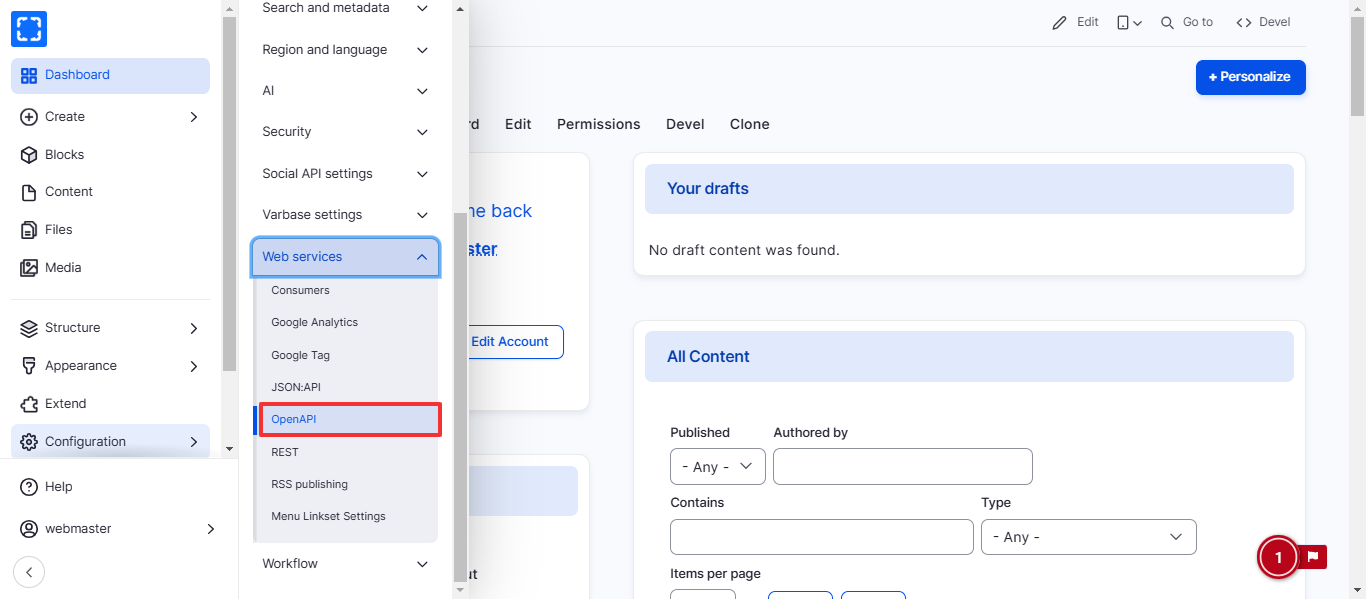
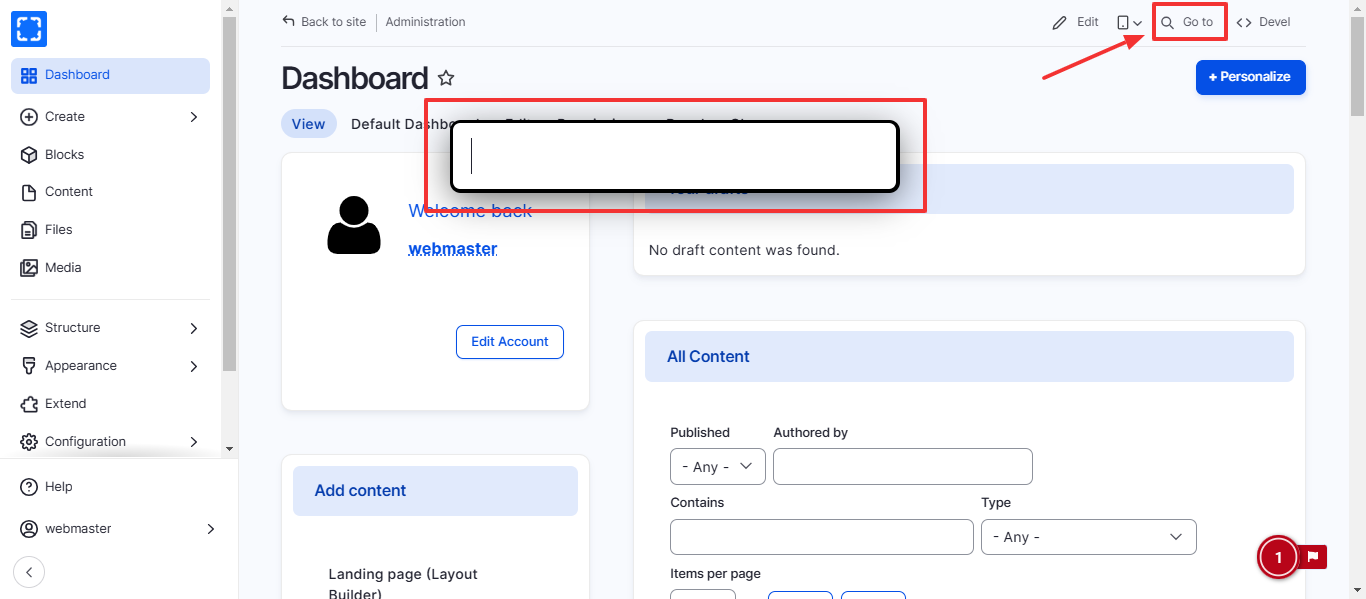
GITBOOK-298: change request with no subject merged in GitBook

diff --git a/content-designers/site-configuration/user-interface/coffee.md b/content-designers/site-configuration/user-interface/coffee.md
@@ -1,0 +1,25 @@
+# Coffee
+
+Varbase is a Drupal distribution that comes with pre-configured features to streamline the website building process. The "Coffee" module within Varbase provides an efficient way to navigate through large admin interfaces by offering a quick search bar, similar to application launchers seen in operating systems. With this module, users can type in keywords and instantly access various sections of their Drupal site, significantly enhancing productivity and user experience by reducing the time spent on navigation.
+
+### How to Use Coffee Module
+
+1. From the right tob of all the pages, Click on _**Go To**_ link
+2. a search bar will appear, type the functionality you are searching for.
+3. Once you start typing the search bar will auto-complete in dropdown list.
+4. Click on the page you are looking for.
+5. You'll be redirected to the page.
+
+<figure><img src="../../../.gitbook/assets/image (144).png" alt=""><figcaption><p>Go to Link/ Search Bar Popup</p></figcaption></figure>
+
+<figure><img src="../../../.gitbook/assets/image (145).png" alt=""><figcaption><p>Auto-complete in Dropdown List</p></figcaption></figure>
+
+### How to Configure the Coffee Module
+
+1. Form **Configuration/ User interface/&#x20;**_**Coffee.**_
+2. You'll be redirected to the **Coffee Configuration** page.
+3. Update the information you want and click on Save Configuration button.
+
+<figure><img src="../../../.gitbook/assets/image (146).png" alt=""><figcaption><p>Navigate Coffee</p></figcaption></figure>
+
+<figure><img src="../../../.gitbook/assets/image (149).png" alt=""><figcaption><p>Coffee Configuration Page</p></figcaption></figure>

diff --git a/content-designers/site-configuration/web-services/openapi.md b/content-designers/site-configuration/web-services/openapi.md
@@ -18,9 +18,9 @@ This approach streamlines the development process by ensuring that your API is w
 
 Go to **Configuration/ Web Services/&#x20;**_**OpenAPI.**_
 
-<figure><img src="../../../.gitbook/assets/image (144).png" alt=""><figcaption><p>Navigate OpenAPI</p></figcaption></figure>
+<figure><img src="../../../.gitbook/assets/image (139).png" alt=""><figcaption><p>Navigate OpenAPI</p></figcaption></figure>
 
-<figure><img src="../../../.gitbook/assets/image (145).png" alt=""><figcaption><p>OpenAPI Page</p></figcaption></figure>
+<figure><img src="../../../.gitbook/assets/image (140).png" alt=""><figcaption><p>OpenAPI Page</p></figcaption></figure>
 
 ### OpenAPI Documentation:
 
@@ -28,7 +28,7 @@ Go to **Configuration/ Web Services/&#x20;**_**OpenAPI.**_
 2. Click on _**Explore with ReDoc**_ or _**Explore with Swagger UI.**_
 3. You'll be redirected to the OpenAPI Documentation page.
 
-<figure><img src="../../../.gitbook/assets/image (146).png" alt=""><figcaption><p>Explore with ReDoc &#x26; Explore with Swagger UI Buttons</p></figcaption></figure>
+<figure><img src="../../../.gitbook/assets/image (143).png" alt=""><figcaption><p>Explore with ReDoc &#x26; Explore with Swagger UI Buttons</p></figcaption></figure>
 
 <figure><img src="../../../.gitbook/assets/image (147).png" alt=""><figcaption><p>OpenAPI Documentation - Explore with ReDoc</p></figcaption></figure>
 

diff --git a/content-designers/site-configuration/user-interface/external-links.md b/content-designers/site-configuration/user-interface/external-links.md
@@ -1,0 +1,19 @@
+# External Links
+
+In **Varbase**, external links refer to links that direct users to websites outside of your own domain. Varbase, being a Drupal-based distribution, offers various ways to handle external links effectively. Here are some key features:
+
+* **Automatic Detection**: Varbase can differentiate between internal and external links.
+* **Target Behavior**: You can configure external links to open in a new tab (`_blank`) for better user experience.
+* **Icon Indication**: External links can be automatically marked with an external link icon.
+* **SEO & Security Enhancements**: Attributes like `rel="noopener noreferrer"` can be added to improve security and SEO.
+* **Customization**: You can configure external link behavior using Drupal modules like **External Links** or custom settings in Varbase.
+
+### How to Navigate the External Links Page
+
+1. Form **Configuration/ User interface/&#x20;**_**External Links.**_
+2. You'll be redirected to the **External Links** page.
+3. Update the information you want and click on Save Configuration button.
+
+<figure><img src="../../../.gitbook/assets/image (151).png" alt=""><figcaption><p>Navigate the External Links Page</p></figcaption></figure>
+
+<figure><img src="../../../.gitbook/assets/image (150).png" alt=""><figcaption><p>External Links Page</p></figcaption></figure>

diff --git a/content-designers/site-configuration/user-interface/gin-moderation-sidebar.md b/content-designers/site-configuration/user-interface/gin-moderation-sidebar.md
@@ -1,0 +1,19 @@
+# Gin Moderation Sidebar
+
+The **Gin Moderation Sidebar** in **Varbase** is a feature designed to enhance content moderation and workflow management within the **Gin Admin Theme**.&#x20;
+
+* **Streamlined Moderation**: Provides an easy-to-access sidebar for managing content moderation states.
+* **Workflow Integration**: Works with the **Workbench Moderation** or **Content Moderation** modules to allow smooth content approvals.
+* **Quick Actions**: Editors and moderators can change moderation states (e.g., Draft, Published, Needs Review) without leaving the current page.
+* **User-Friendly UI**: Part of the Gin Admin Theme, offering a modern and intuitive experience.
+* **Customizable**: Can be adjusted based on user roles and permissions for better workflow control.
+
+### How to Navigate the Gin Moderation Sidebar Page
+
+1. Form **Configuration/ User interface/&#x20;**_**Gin Moderation Sidebar.**_
+2. You'll be redirected to the **Gin Moderation Sidebar** page.
+3. Update the information you want and click on Save Configuration button.
+
+<figure><img src="../../../.gitbook/assets/image (153).png" alt=""><figcaption><p>Gin Moderation Sidebar Page</p></figcaption></figure>
+
+<figure><img src="../../../.gitbook/assets/image (152).png" alt=""><figcaption><p>Moderation States</p></figcaption></figure>

diff --git a/content-designers/site-configuration/user-interface/layout-builder-modal.md b/content-designers/site-configuration/user-interface/layout-builder-modal.md
@@ -1,0 +1,20 @@
+# Layout Builder Modal
+
+The **Layout Builder Modal** in **Varbase** provides an improved user experience for managing content layouts using the **Drupal Layout Builder**. It allows users to configure sections and blocks within a modal window instead of a full-page reload.
+
+**Key Features:**
+
+* **Improved UX**: Opens block and section configuration in a modal instead of a full-page reload.
+* **Faster Editing**: Reduces page refreshes, making layout updates more efficient.
+* **Seamless Integration**: Works with the **Varbase Layout Builder** and **Gin Admin Theme** for a modern UI.
+* **Customizable Permissions**: Control access via Drupal’s permissions system.
+
+### How to Navigate the **Layout Builder Modal** Page
+
+1. Form **Configuration/ User interface/&#x20;**_**Layout Builder Modal.**_
+2. You'll be redirected to the **Layout Builder Modal** page.
+3. Update the information you want and click on Save Configuration button.
+
+<figure><img src="../../../.gitbook/assets/image (155).png" alt=""><figcaption><p>Navigate the Layout Builder Modal Page</p></figcaption></figure>
+
+<figure><img src="../../../.gitbook/assets/image (154).png" alt=""><figcaption><p>Layout Builder Modal Page</p></figcaption></figure>

diff --git a/content-designers/site-configuration/user-interface/admin-toolbar-tools.md b/content-designers/site-configuration/user-interface/admin-toolbar-tools.md
@@ -1,2 +1,16 @@
+---
+hidden: true
+---
+
 # Admin Toolbar Tools
+
+The Admin Toolbar Tools module in Drupal is an extension of the Admin Toolbar module, which aims to improve the user experience of the default Drupal administration menu. It provides additional functionalities by adding drop-down menus to the toolbar, making navigation more efficient for administrators.
+
+Admin Toolbar Tools can offer:
+
+1. **Extended Toolbar Functionality**: It enhances the default admin toolbar by making it more dynamic and providing drop-down capabilities for quicker access to frequently used items.
+2. **Shortcuts and Links**: Offers one-click access to commonly used admin pages, speeding up the workflow for site builders and administrators.
+3. **Customizable**: Administrators can customize the toolbar according to their needs, rearranging or removing items that are not relevant to their workflow.
+
+Overall, the Admin Toolbar Tools module is designed to simplify the admin experience, making it more intuitive and efficient for site administration tasks.
 

diff --git a/SUMMARY.md b/SUMMARY.md
@@ -204,6 +204,11 @@
       * [Mail Templates](content-designers/site-configuration/system/mail-templates.md)
     * [User Interface](content-designers/site-configuration/user-interface.md)
       * [Admin Toolbar Tools](content-designers/site-configuration/user-interface/admin-toolbar-tools.md)
+      * [Coffee](content-designers/site-configuration/user-interface/coffee.md)
+      * [External Links](content-designers/site-configuration/user-interface/external-links.md)
+      * [Gin Moderation Sidebar](content-designers/site-configuration/user-interface/gin-moderation-sidebar.md)
+      * [Layout Builder Modal](content-designers/site-configuration/user-interface/layout-builder-modal.md)
+      * [Moderation Sidebar](content-designers/site-configuration/user-interface/moderation-sidebar.md)
     * [Development](content-designers/site-configuration/development.md)
     * [Varbase Settings](content-designers/site-configuration/varbase-settings.md)
     * [Web Services](content-designers/site-configuration/web-services.md)

diff --git a/content-designers/site-configuration/user-interface/moderation-sidebar.md b/content-designers/site-configuration/user-interface/moderation-sidebar.md
@@ -1,0 +1,2 @@
+# Moderation Sidebar
+
